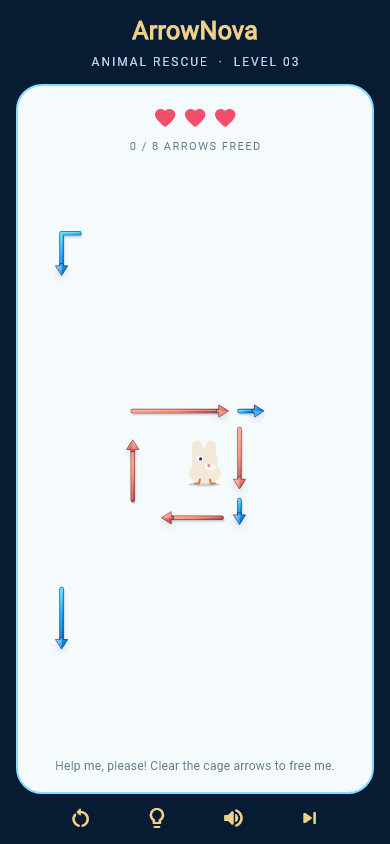
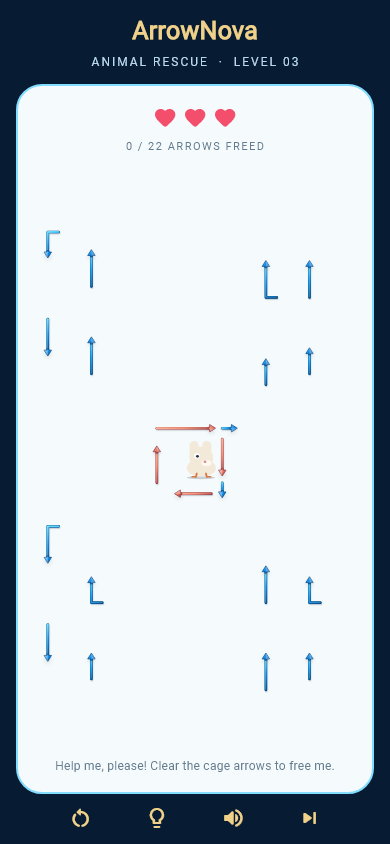
Make Rescue challenging and move Classic error glow to screen edge

diff --git a/mobile/lib/game/board.dart b/mobile/lib/game/board.dart
@@ -517,36 +517,6 @@ class ArrowPainter extends CustomPainter {
   @override
   void paint(Canvas canvas, Size size) {
     canvas.clipRect(Offset.zero & size);
-    if (blocked && !reducedMotion && progress > 0) {
-      // A brief three-sided red vignette makes a blocked exit read instantly,
-      // while leaving the lower edge clear for the controls below the board.
-      final inset = max(8.0, min(16.0, min(size.width, size.height) * .035));
-      final frame = Path()
-        ..moveTo(inset, size.height - inset)
-        ..lineTo(inset, inset)
-        ..lineTo(size.width - inset, inset)
-        ..lineTo(size.width - inset, size.height - inset);
-      final pulse = sin(progress * pi).clamp(0.0, 1.0);
-      canvas.drawPath(
-        frame,
-        Paint()
-          ..style = PaintingStyle.stroke
-          ..strokeCap = StrokeCap.round
-          ..strokeJoin = StrokeJoin.round
-          ..strokeWidth = max(10, min(size.width, size.height) * .07)
-          ..color = const Color(0xFFFF244A).withValues(alpha: pulse * .48)
-          ..maskFilter = const MaskFilter.blur(BlurStyle.normal, 22),
-      );
-      canvas.drawPath(
-        frame,
-        Paint()
-          ..style = PaintingStyle.stroke
-          ..strokeCap = StrokeCap.round
-          ..strokeJoin = StrokeJoin.round
-          ..strokeWidth = 3
-          ..color = const Color(0xFFE51D42).withValues(alpha: pulse * .56),
-      );
-    }
     for (final arrow in game.puzzle.arrows) {
       if (game.removed.contains(arrow.id) && arrow.id != activeId) continue;
       canvas.save();
@@ -819,6 +789,65 @@ class ArrowPainter extends CustomPainter {
   bool shouldRepaint(covariant ArrowPainter oldDelegate) => true;
   @override
   bool shouldRebuildSemantics(covariant ArrowPainter oldDelegate) => true;
+}
+
+/// Pulsing warning around the physical game viewport when a move is blocked.
+/// Kept outside the board so the warning reads as a screen-edge effect.
+class ScreenEdgeGlowPainter extends CustomPainter {
+  const ScreenEdgeGlowPainter(this.progress);
+
+  final double progress;
+
+  @override
+  void paint(Canvas canvas, Size size) {
+    final pulse = sin(progress * pi).clamp(0.0, 1.0);
+    if (pulse <= 0) return;
+    final thickness = min(58.0, min(size.width, size.height) * .09);
+    final alpha = (.62 * pulse).clamp(0.0, 1.0);
+    final edges = <(Rect, Alignment, Alignment)>[
+      (
+        Rect.fromLTWH(0, 0, size.width, thickness),
+        Alignment.topCenter,
+        Alignment.bottomCenter,
+      ),
+      (
+        Rect.fromLTWH(0, size.height - thickness, size.width, thickness),
+        Alignment.bottomCenter,
+        Alignment.topCenter,
+      ),
+      (
+        Rect.fromLTWH(0, 0, thickness, size.height),
+        Alignment.centerLeft,
+        Alignment.centerRight,
+      ),
+      (
+        Rect.fromLTWH(size.width - thickness, 0, thickness, size.height),
+        Alignment.centerRight,
+        Alignment.centerLeft,
+      ),
+    ];
+    for (final (rect, begin, end) in edges) {
+      final paint = Paint()
+        ..shader = LinearGradient(
+          begin: begin,
+          end: end,
+          colors: [Color.fromRGBO(238, 36, 62, alpha), Colors.transparent],
+        ).createShader(rect)
+        ..maskFilter = const MaskFilter.blur(BlurStyle.normal, 9);
+      canvas.drawRect(rect, paint);
+    }
+    canvas.drawRect(
+      Offset.zero & size,
+      Paint()
+        ..style = PaintingStyle.stroke
+        ..strokeWidth = 3
+        ..color = Color.fromRGBO(238, 36, 62, alpha * .72),
+    );
+  }
+
+  @override
+  bool shouldRepaint(covariant ScreenEdgeGlowPainter oldDelegate) =>
+      oldDelegate.progress != progress;
 }
 
 /// The tail follows the original bends while the head travels along its exit

diff --git a/mobile/tool/render_level_approval_screens_test.dart b/mobile/tool/render_level_approval_screens_test.dart
@@ -24,6 +24,7 @@ void main() {
         level,
       );
     }
+    await _capture(tester, 'classic-blocked-edges.png', 6, blockedDemo: true);
     for (var level = 1; level <= 10; level++) {
       await _capture(
         tester,
@@ -40,6 +41,7 @@ Future<void> _capture(
   String fileName,
   int level, {
   bool rescue = false,
+  bool blockedDemo = false,
 }) async {
   final game = GameSession(
     rescue ? RescueCatalog.get(level) : LevelCatalog.get(level),
@@ -51,7 +53,10 @@ Future<void> _capture(
       theme: ThemeData(fontFamily: 'ArrowNovaSans'),
       home: Scaffold(
         backgroundColor: const Color(0xFF071B33),
-        body: SafeArea(
+        body: Stack(
+          fit: StackFit.expand,
+          children: [
+          SafeArea(
           child: Padding(
             padding: const EdgeInsets.fromLTRB(16, 12, 16, 14),
             child: Column(
@@ -122,6 +127,18 @@ Future<void> _capture(
                             child: ArrowBoard(
                               theme: boardThemes.first,
                               game: game,
+                              activeId: blockedDemo
+                                  ? game.puzzle.arrows
+                                        .firstWhere(
+                                          (arrow) => !game.puzzle.canExit(
+                                            arrow.id,
+                                            game.removed,
+                                          ),
+                                        )
+                                        .id
+                                  : null,
+                              blocked: blockedDemo,
+                              progress: blockedDemo ? .5 : 0,
                               rescueAnimal: rescue
                                   ? RescueCatalog.animal(level)
                                   : null,
@@ -159,6 +176,14 @@ Future<void> _capture(
               ],
             ),
           ),
+          ),
+          if (blockedDemo)
+            const Positioned.fill(
+              child: IgnorePointer(
+                child: CustomPaint(painter: ScreenEdgeGlowPainter(.5)),
+              ),
+            ),
+          ],
         ),
       ),
     ),

diff --git a/mobile/lib/game_screen.dart b/mobile/lib/game_screen.dart
@@ -679,7 +679,10 @@ class _GameScreenState extends State<GameScreen>
       canPop: !busy && !reviving,
       child: Scaffold(
         bottomNavigationBar: learning ? null : const GameBanner(),
-        body: Atmosphere(
+        body: Stack(
+          fit: StackFit.expand,
+          children: [
+            Atmosphere(
           child: SafeArea(
             child: Center(
               child: ConstrainedBox(
@@ -1069,7 +1072,18 @@ class _GameScreenState extends State<GameScreen>
                 ),
               ),
             ),
-          ),
+            ),
+            if (blocked && active != null && !learning && !widget.rescue &&
+                !widget.endless && widget.dailyDate == null &&
+                !MediaQuery.disableAnimationsOf(context))
+              Positioned.fill(
+                child: IgnorePointer(
+                  child: CustomPaint(
+                    painter: ScreenEdgeGlowPainter(animation.value),
+                  ),
+                ),
+              ),
+          ],
         ),
       ),
     );

diff --git a/mobile/lib/game/puzzle.dart b/mobile/lib/game/puzzle.dart
@@ -167,11 +167,13 @@ class LevelCatalog {
     final rescueProgress =
         (level.clamp(1, RescueCatalog.count) - 1) / (RescueCatalog.count - 1);
     final count = rescue
-        ? 6 + (74 * sqrt(rescueProgress)).round()
+        ? 20 + (60 * sqrt(rescueProgress)).round()
         : endless
         ? EndlessCatalog.arrowCount(level)
         : arrowCount(level);
-    final chain = level <= 5
+    final chain = rescue
+        ? (count >= 40 ? 5 : 4)
+        : level <= 5
         ? 2
         : level <= 10
         ? 3
